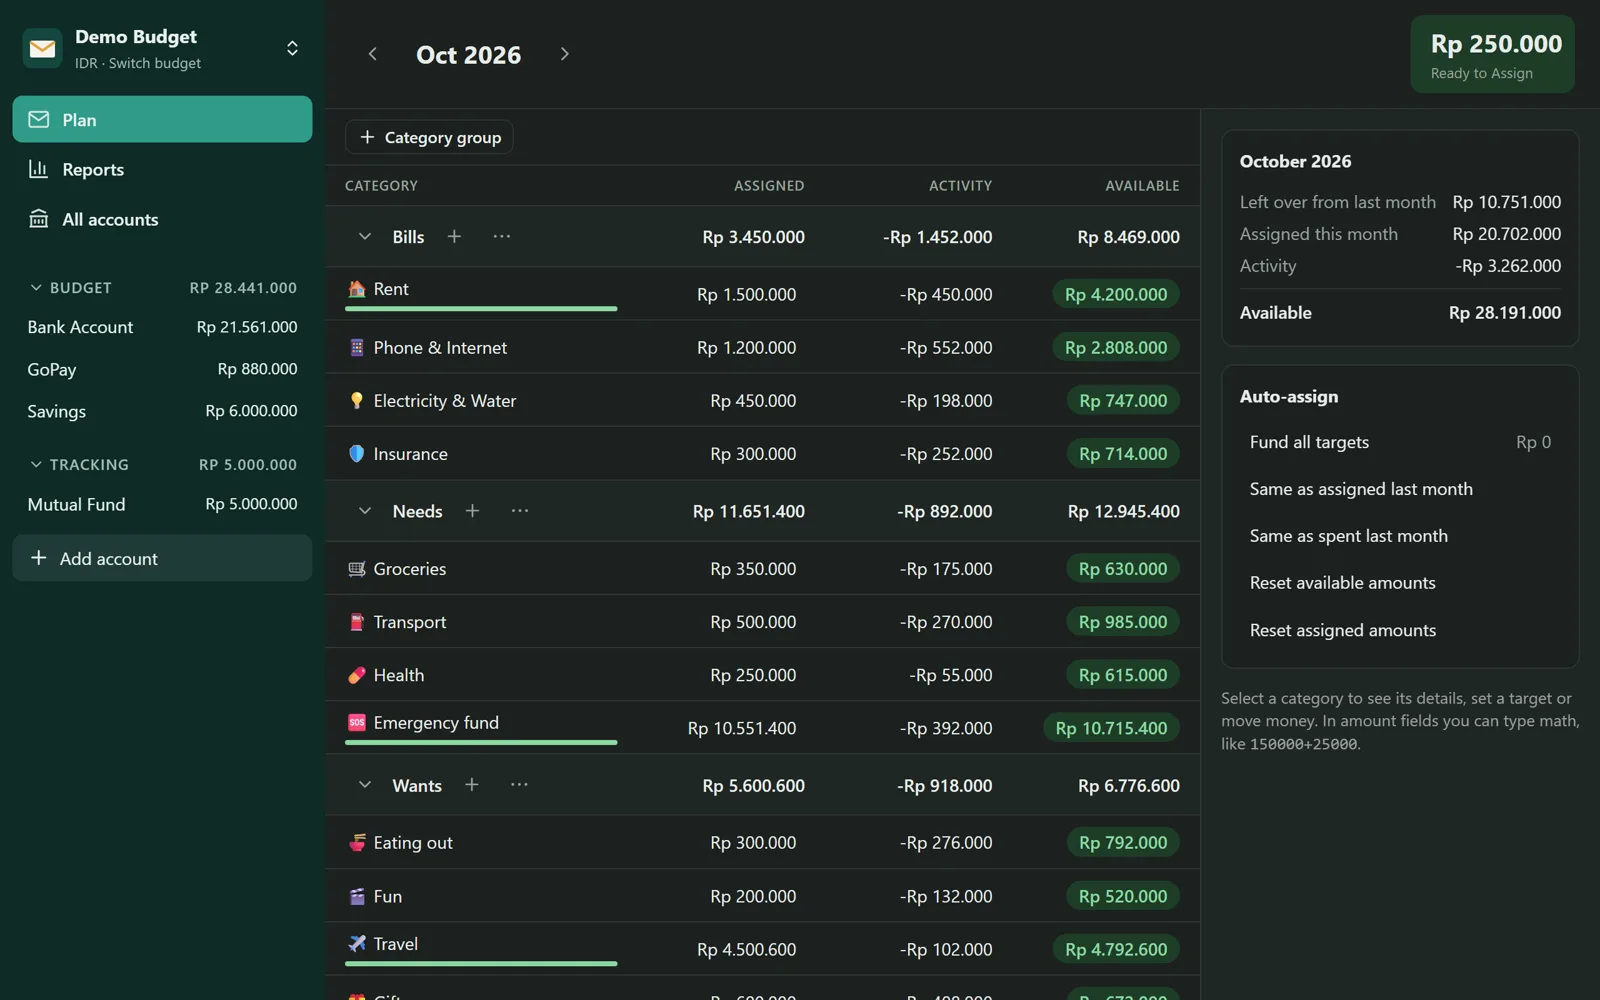
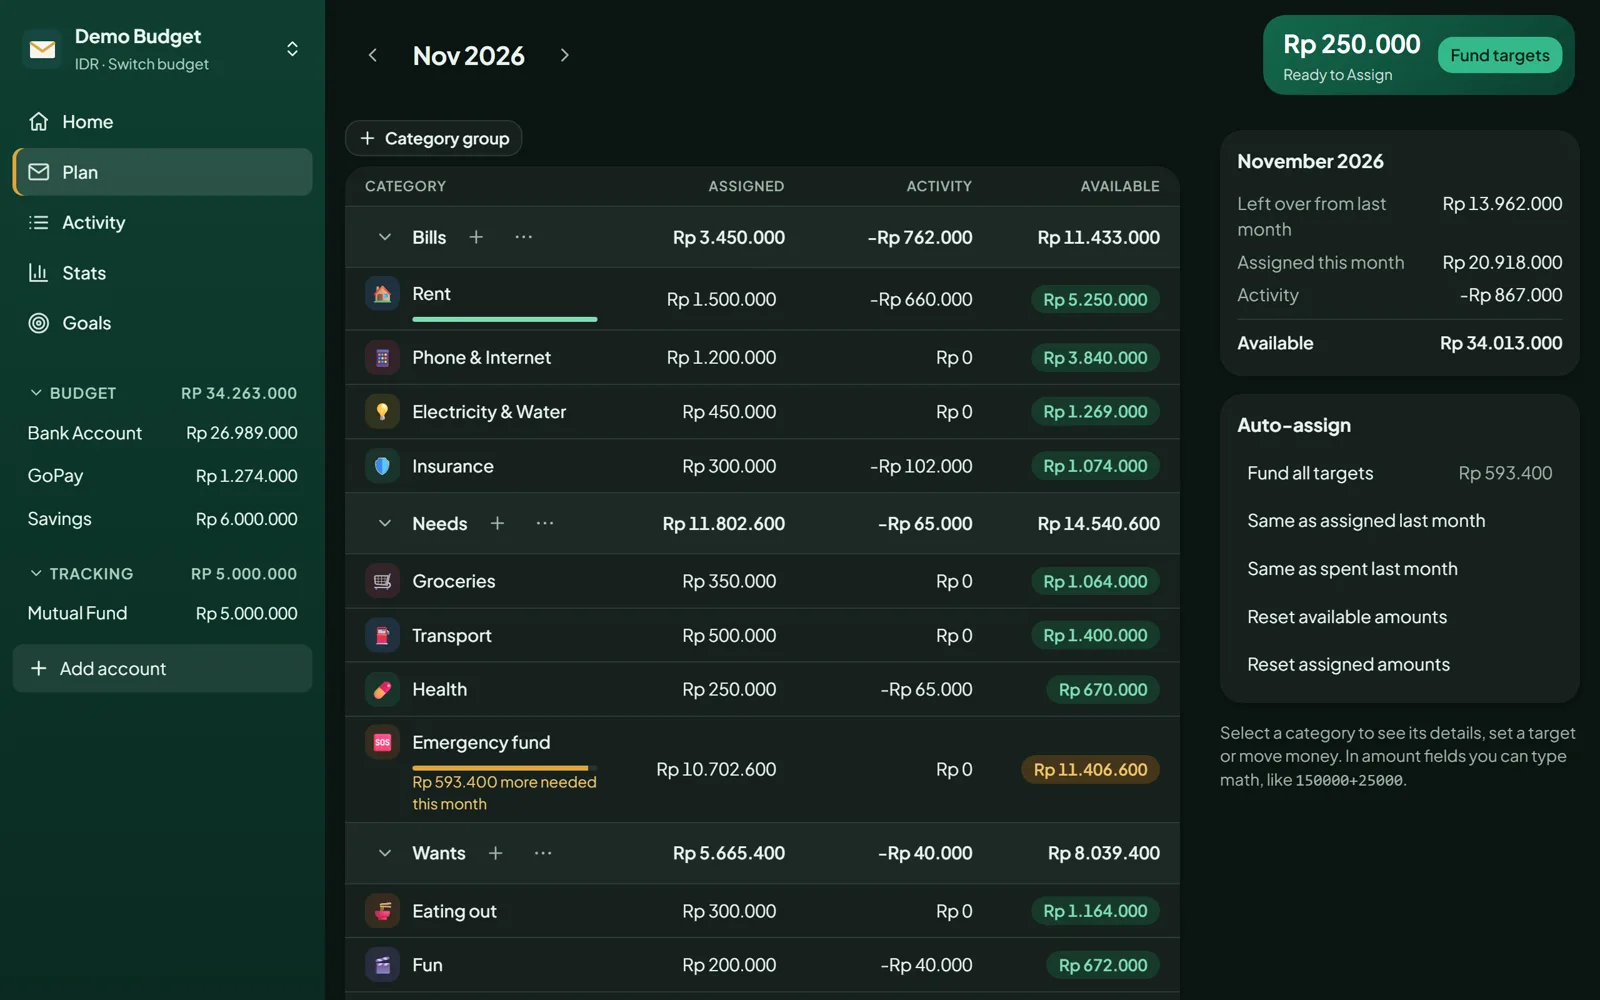
Add Angkat and refresh app screenshots

diff --git a/index.html b/index.html
@@ -59,7 +59,7 @@
           </div>
           <figure class="shots shots-amplop">
             <a href="images/amplop-plan.webp"><img src="images/amplop-plan.webp" width="1600" height="1000" loading="lazy" alt="Amplop's desktop budget screen with categories, assigned amounts and available balances." data-i18n-alt="amplopPlanAlt"></a>
-            <a href="images/amplop-reports.webp"><img src="images/amplop-reports.webp" width="700" height="1050" loading="lazy" alt="Amplop's phone reports screen comparing income and spending by month." data-i18n-alt="amplopReportsAlt"></a>
+            <a href="images/amplop-home.webp"><img src="images/amplop-home.webp" width="700" height="1050" loading="lazy" alt="Amplop's phone home screen with total balance, quick actions, the month's budget and recent transactions." data-i18n-alt="amplopHomeAlt"></a>
             <figcaption data-i18n="demoCaption">Real app, made-up demo data.</figcaption>
           </figure>
           <p class="summary" data-i18n="amplopSummary">A self-hosted envelope budgeting app: give every rupiah a job before you spend it. It installs on a phone and keeps all its data in a single SQLite file.</p>
@@ -80,7 +80,7 @@
             <span class="tag" data-i18n="private">Private repo</span>
           </div>
           <figure class="shots shots-baca">
-            <a href="images/bacadengar-library.webp"><img src="images/bacadengar-library.webp" width="700" height="847" loading="lazy" alt="BacaDengar's library showing a book to continue with Read and Listen buttons." data-i18n-alt="bacaLibraryAlt"></a>
+            <a href="images/bacadengar-library.webp"><img src="images/bacadengar-library.webp" width="700" height="847" loading="lazy" alt="BacaDengar's home screen with a book cover carousel and shelf filters." data-i18n-alt="bacaLibraryAlt"></a>
             <a href="images/bacadengar-reader.webp"><img src="images/bacadengar-reader.webp" width="700" height="847" loading="lazy" alt="BacaDengar's reader showing a chapter of Alice's Adventures in Wonderland." data-i18n-alt="bacaReaderAlt"></a>
             <figcaption data-i18n="bacaCaption">Real app, shown with the public-domain book Alice's Adventures in Wonderland.</figcaption>
           </figure>
@@ -96,6 +96,28 @@
 
       <article class="project">
         <p class="index" aria-hidden="true">03</p>
+        <div class="body">
+          <div class="title-row">
+            <h3>Angkat</h3>
+            <span class="tag" data-i18n="private">Private repo</span>
+          </div>
+          <figure class="shots shots-baca">
+            <a href="images/angkat-home.webp"><img src="images/angkat-home.webp" width="700" height="847" loading="lazy" alt="Angkat's home screen with today's progress ring, weekly activity and quick actions." data-i18n-alt="angkatHomeAlt"></a>
+            <a href="images/angkat-nutrition.webp"><img src="images/angkat-nutrition.webp" width="700" height="847" loading="lazy" alt="Angkat's nutrition screen with calories, macros, water and logged meals." data-i18n-alt="angkatNutritionAlt"></a>
+            <figcaption data-i18n="demoCaption">Real app, made-up demo data.</figcaption>
+          </figure>
+          <p class="summary" data-i18n="angkatSummary">A personal gym log for workouts, programs, progress and nutrition. The name is Indonesian for "lift". It's an installable phone app that keeps working with no connection.</p>
+          <ul>
+            <li data-i18n="angkat1">Offline-first: every entry saves on the phone, then syncs to the server when a connection returns.</li>
+            <li data-i18n="angkat2">When two devices edit the same workout, the changes are merged set by set instead of one overwriting the other.</li>
+            <li data-i18n="angkat3">A library of 870+ exercises with demo photos and muscle maps, plus optional food-photo analysis with Gemini.</li>
+          </ul>
+          <p class="stack">React · TypeScript · IndexedDB · Node.js · Express · SQLite · Gemini API · Docker</p>
+        </div>
+      </article>
+
+      <article class="project">
+        <p class="index" aria-hidden="true">04</p>
         <div class="body">
           <h3 data-i18n="fruitTitle">Fruit Freshness Classification</h3>
           <p class="summary" data-i18n="fruitSummary">Independent research comparing three pre-trained CNNs at telling fresh apples and bananas from rotten ones, using 10,159 images across four classes.</p>
@@ -118,7 +140,7 @@
       </article>
 
       <article class="project">
-        <p class="index" aria-hidden="true">04</p>
+        <p class="index" aria-hidden="true">05</p>
         <div class="body">
           <h3 data-i18n="perceptronTitle">Perceptron Notebook</h3>
           <p class="summary" data-i18n="perceptronSummary">A step-by-step implementation of the perceptron, the most basic neural network, covering weight updates and a plotted decision boundary.</p>
@@ -132,8 +154,8 @@
       <h2 id="skills-title" data-i18n="navSkills">Skills</h2>
       <dl class="skills">
         <div><dt data-i18n="skillLangs">Languages</dt><dd>TypeScript, JavaScript, Python, SQL, HTML, CSS</dd></div>
-        <div><dt data-i18n="skillWeb">Web</dt><dd>React, Vite, Node.js, Express, PWA</dd></div>
-        <div><dt data-i18n="skillMl">Machine learning</dt><dd>TensorFlow, Keras, CNNs, faster-whisper, NumPy</dd></div>
+        <div><dt data-i18n="skillWeb">Web</dt><dd>React, Vite, Node.js, Express, FastAPI, IndexedDB, PWA</dd></div>
+        <div><dt data-i18n="skillMl">Machine learning</dt><dd>TensorFlow, Keras, CNNs, faster-whisper, Gemini API, NumPy</dd></div>
         <div><dt data-i18n="skillOps">Tools</dt><dd>Docker, Docker Compose, SQLite, Git, Linux</dd></div>
       </dl>
     </section>

diff --git a/script.js b/script.js
@@ -18,6 +18,12 @@ const indonesian = {
   baca1: "Mentranskripsi audiobook dengan Whisper dan mencocokkan setiap kalimat buku dengan waktunya di audio.",
   baca2: "Penyelarasan buatan sendiri yang berpatokan pada urutan empat kata yang unik, lalu mengisi celah di antaranya.",
   baca3: "Worker latar belakang yang memproses audio per bagian, menjaga memori tetap stabil, dan melanjutkan setelah restart.",
+  angkatSummary: "Catatan gym pribadi untuk latihan, program, progres, dan nutrisi. Bisa dipasang di ponsel dan tetap berjalan tanpa koneksi.",
+  angkat1: "Offline-first: setiap catatan tersimpan di ponsel, lalu tersinkron ke server saat koneksi kembali.",
+  angkat2: "Saat dua perangkat mengubah sesi latihan yang sama, perubahannya digabung per set sehingga tidak saling menimpa.",
+  angkat3: "Pustaka 870+ gerakan dengan foto contoh dan peta otot, serta analisis foto makanan opsional dengan Gemini.",
+  angkatHomeAlt: "Layar utama Angkat dengan cincin progres hari ini, aktivitas mingguan, dan aksi cepat.",
+  angkatNutritionAlt: "Layar nutrisi Angkat dengan kalori, makro, air, dan makanan yang dicatat.",
   fruitTitle: "Klasifikasi Kesegaran Buah",
   fruitSummary: "Penelitian mandiri yang membandingkan tiga CNN pre-trained dalam membedakan apel dan pisang segar dari yang busuk, dengan 10.159 gambar dalam empat kelas.",
   fruitNote: "Akurasi pada 2.030 gambar validasi. Model terbaik juga dicoba pada gambar dari luar dataset.",
@@ -37,8 +43,8 @@ const indonesian = {
   bacaCaption: "Aplikasi asli, ditampilkan dengan buku domain publik Alice's Adventures in Wonderland.",
   fruitMatrixCaption: "Confusion matrix InceptionV3 dari notebook. Kesalahan terbanyak adalah apel sehat yang dilabeli busuk.",
   amplopPlanAlt: "Layar anggaran Amplop di desktop dengan kategori, jumlah yang dialokasikan, dan saldo tersedia.",
-  amplopReportsAlt: "Layar laporan Amplop di ponsel yang membandingkan pemasukan dan pengeluaran per bulan.",
-  bacaLibraryAlt: "Perpustakaan BacaDengar menampilkan buku yang bisa dilanjutkan dengan tombol Baca dan Dengar.",
+  amplopHomeAlt: "Layar utama Amplop di ponsel dengan total saldo, aksi cepat, anggaran bulan ini, dan transaksi terbaru.",
+  bacaLibraryAlt: "Layar utama BacaDengar dengan korsel sampul buku dan filter rak.",
   bacaReaderAlt: "Pembaca BacaDengar menampilkan satu bab Alice's Adventures in Wonderland.",
   fruitMatrixAlt: "Confusion matrix InceptionV3. Sebagian besar prediksi benar; kesalahan utama adalah 116 apel sehat yang dilabeli busuk.",
   skillLangs: "Bahasa pemrograman",
